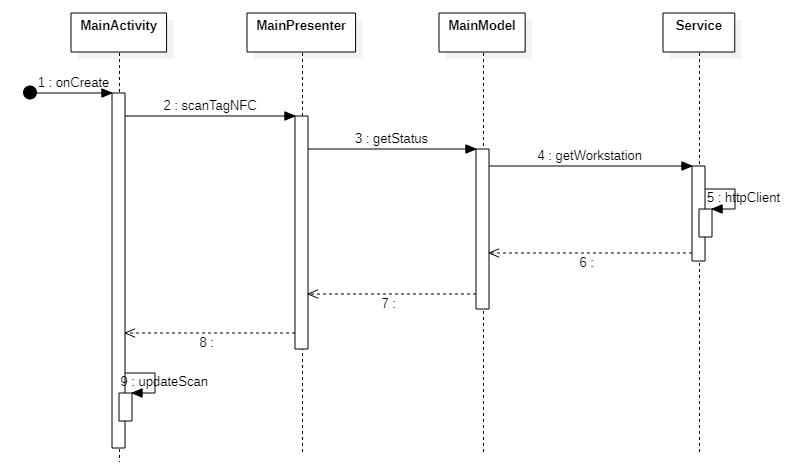
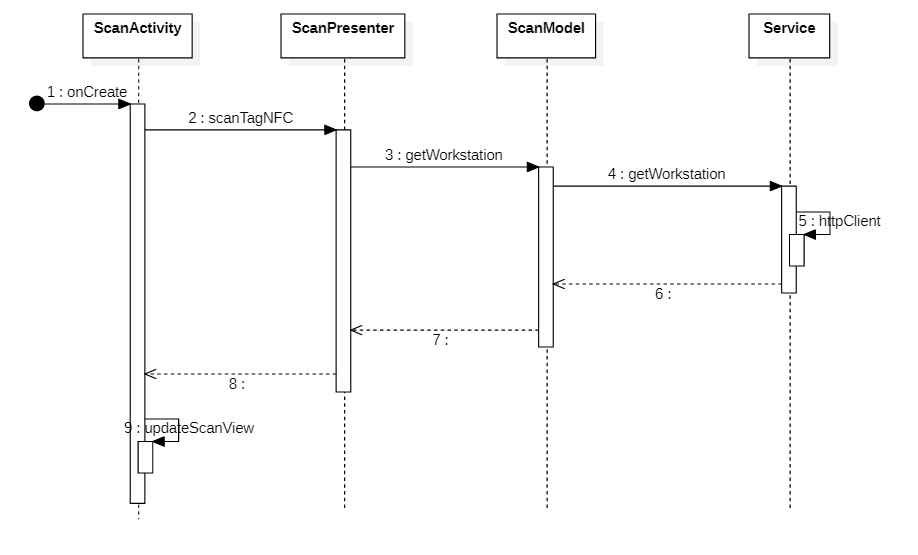
corretti diagrammi sequenza

diff --git a/esterni/ManualeManutentore/res/sections/Apputenti.tex b/esterni/ManualeManutentore/res/sections/Apputenti.tex
@@ -482,27 +482,13 @@ In conclusione per visualizzare la lista delle prenotazioni la vista chiamerà i
 \end{figure}
 Questo diagramma di sequenza rappresenta la serie di azioni svolte dall'applicazione quando viene scansionato un tag NFC da un utente.
 La sequenza inizia con la creazione della vista tramite il metodo \textit{onCreate}.
-Successivamente viene richiesto al Presenter di visualizzare le caratteristiche delle postazioni in seguito alla scansione del tag NFC tramite il metodo \textit{scanTagNFC} che a sua volta le richiederà al Model attraverso il metodo \textit{getStatus}.
+Successivamente viene richiesto al Presenter di visualizzare le caratteristiche delle postazioni in seguito alla scansione del tag NFC tramite il metodo \textit{scanTagNFC} che a sua volta le richiederà al Model attraverso il metodo \textit{getWorkstation}.
 Il Model, per ottenere le informazioni di una postazione, otterrà l'id della Workstation grazie al tag associato ad esso.
 Successivamente grazie al metodo \textit{getWorkstation}, che genera un json con l'id della postazione, andrà a richiedere al Service tutte le caratteristiche. Per ottenere queste informazioni il Service userà il metodo \textit{httpClient}.
 In seguito verranno fatte tutte le chiamate di ritorno, ovvero le caratteristiche della postazione verranno ritornate al Model che le ritornerà
 al Presenter che le ritornerà a sua volta alla vista.
-In conclusione per visualizzare le informazioni di una postazione la vista chiamerà il metodo \textit{updateScan}.
+In conclusione per visualizzare le informazioni di una postazione la vista chiamerà il metodo \textit{updateScanView}.
 
-
-\subsubsection{Diagramma per ottenere la guida dell'utente}
-\begin{figure}[H]
-	\centering
-	\includegraphics[width=16cm]{res/images/GuideSeq.png}
-	\caption{Guida-Diagramma di sequenza}
-	\label{fig:Guida-Diagramma di sequenza}
-\end{figure}
-Questo diagramma di sequenza rappresenta la serie di azioni svolte dall'applicazione quando l'utente vuole visualizzare la guida utente.
-La sequenza inizia con la creazione della vista tramite il metodo \textit{onCreate}.
-Successivamente viene richiesto al Presenter di visualizzare la guida tramite il metodo \textit{showGuide} che a sua volta inoltrerà la richiesta al Model attraverso il metodo \textit{getGuide}.
-Successivamente grazie al metodo \textit{getGuideFilePath} viene recuperato il file path dove è stato salvato la guida Utente.
-In seguito verranno fatte tutte le chiamate di ritorno, ossia il file path verrà ritornato al Model che lo ritornerà al Presenter che lo ritornerà a sua volta alla vista.
-In conclusione per visualizzare la guida la vista chiamerà il metodo \textit{updateGuideView}.
 
 \subsubsection{Diagramma per registrare l'igienizzazione di una postazione} 
 \begin{figure}[H]
@@ -513,9 +499,9 @@ In conclusione per visualizzare la guida la vista chiamerà il metodo \textit{up
 \end{figure}
 Questo diagramma di sequenza rappresenta la serie di azioni svolte dall'applicazione quando viene premuto da un utente il bottone per rendere una postazione igienizzata.
 La sequenza inizia con la creazione della vista tramite il metodo \textit{onCreate}.
-Successivamente viene richiesto al Presenter di registrare l'igienizzazione della postazione da parte di un utente tramite il metodo \textit{sanitize} che a sua volta lo richiederà al Model attraverso il metodo \textit{setSanitize}.
+Successivamente viene richiesto al Presenter di registrare l'igienizzazione della postazione da parte di un utente tramite il metodo \textit{makeSanitize} che a sua volta lo richiederà al Model attraverso il metodo \textit{getSanitize}.
 Il Model, per igienizzare una postazione, otterrà prima l'id della Workstation grazie al tag associato ad esso e poi l'id dello user dalla classe User con il metodo \textit{getId}.
-Successivamente grazie al metodo \textit{registerSanitization}, che genera un json con l'id della postazione e l'id dell'utente, andrà a richiedere al Service di registrarla. Per registrarla il Service userà il metodo \textit{httpClient}.
+Successivamente grazie al metodo \textit{getSanitize}, che genera un json con l'id della postazione e l'id dell'utente, andrà a richiedere al Service di registrarla. Per registrarla il Service userà il metodo \textit{httpClient}.
 In seguito verranno fatte tutte le chiamate di ritorno, ovvero il risultato dell’operazione verrà ritornato al Model che lo ritornerà al Presenter che lo ritornerà a sua volta alla vista.
-In conclusione per visualizzare le nuove informazioni sulla postazione la vista chiamerà il metodo \textit{updateSanitization}.
+In conclusione per visualizzare le nuove informazioni sulla postazione la vista chiamerà il metodo \textit{callSanitizeOk}.
 
